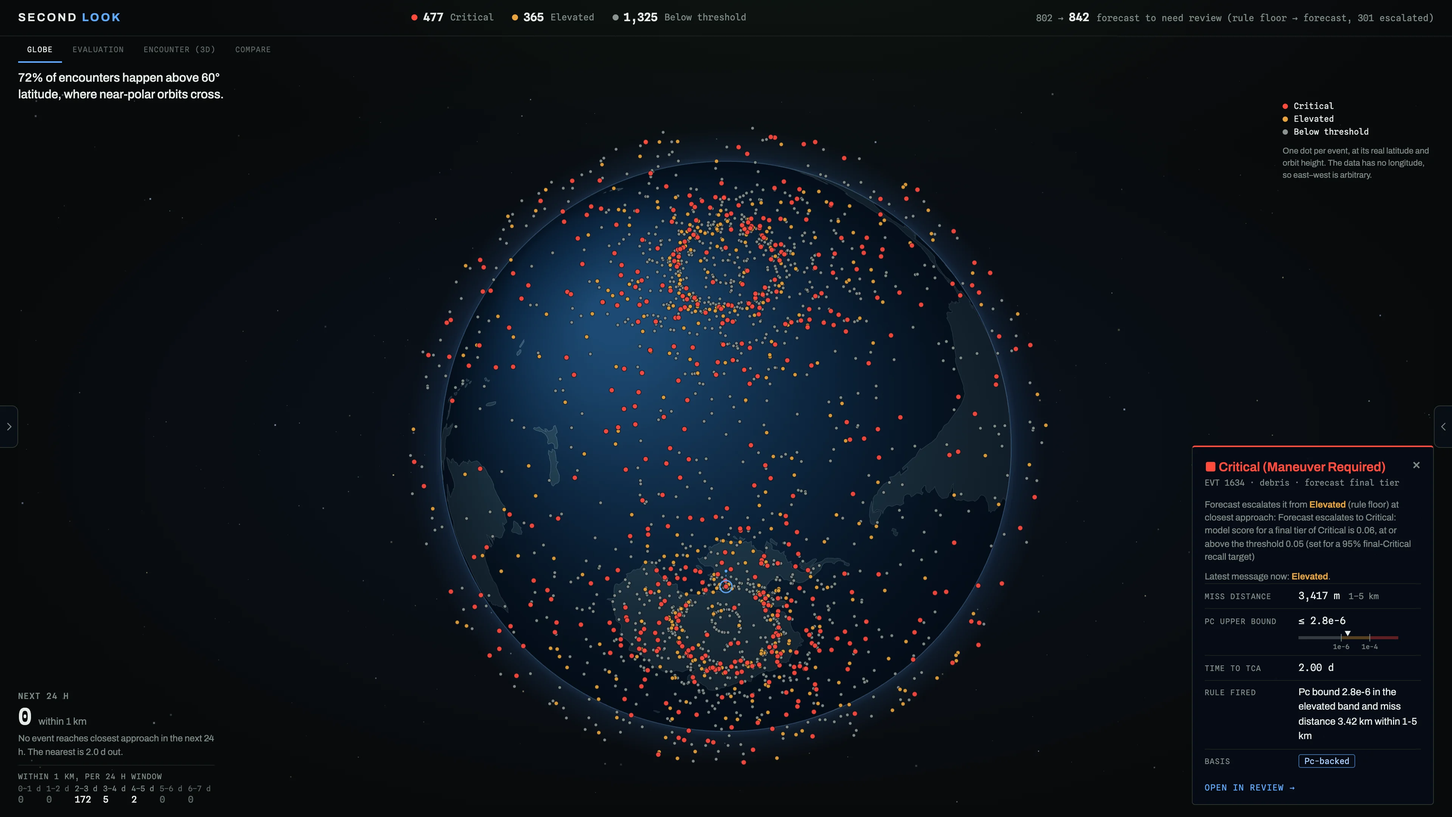
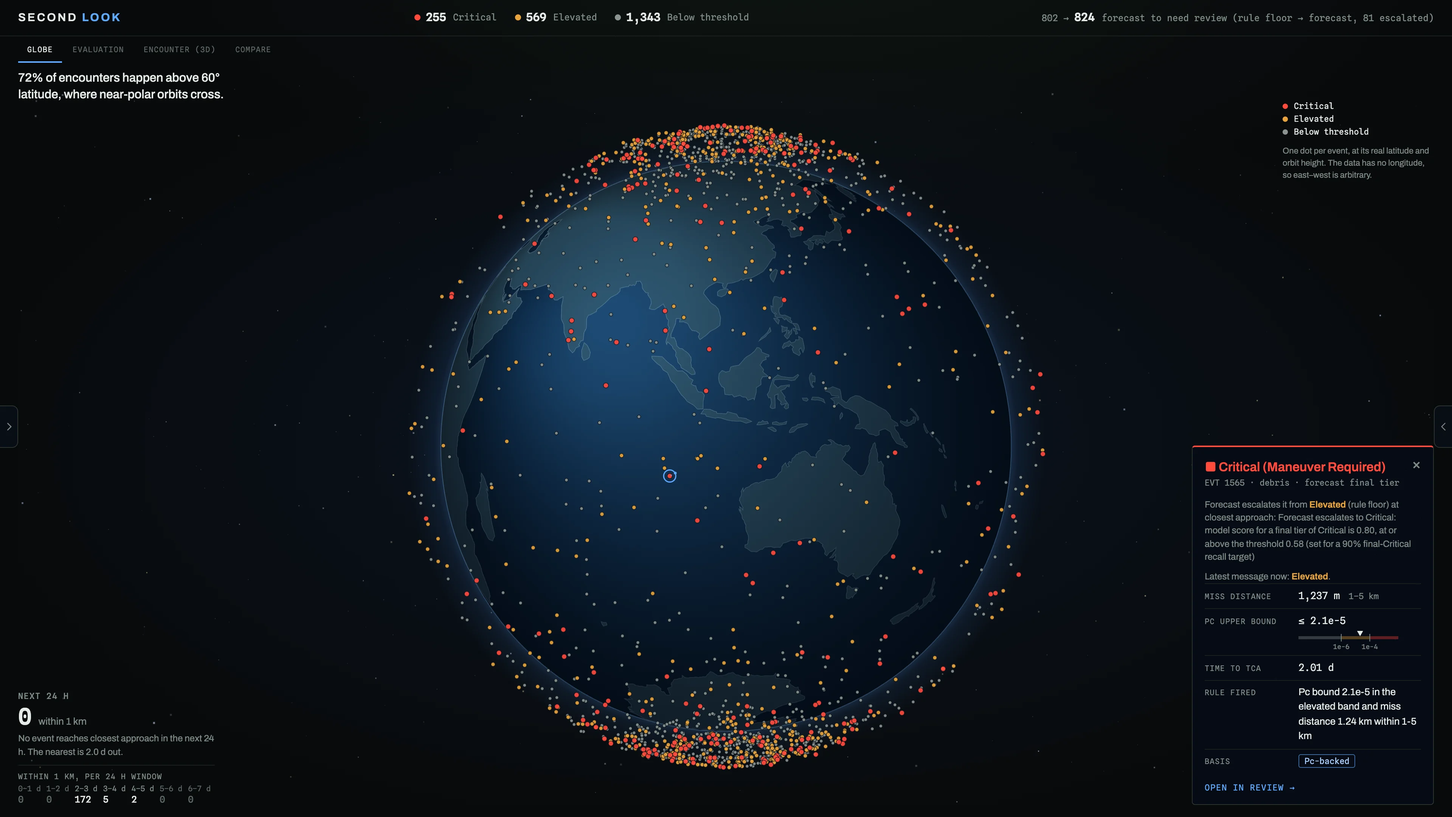
Deck: forecast numbers at the shipped 0.90 recall target (#76)
Scene 5, scene 11, speaker notes, README and BRIEF now use the 0.90 operating
point from docs/FORECAST.md and data/demo/forecast_metrics.json (PR #74):
5-fold CV Critical recall 0.911 vs 0.865, precision 0.757 vs 0.857, F2 0.875
vs 0.863, 79/270 escalations caught, 775 false escalations, accuracy 0.888 vs
0.938; 80/20 recall 0.910, 13/50 caught. Confusion matrix is the CV sum shown
on the Evaluation tab. Scene 11 states 0.90 as shipped with 0.95 as a
sensitivity (115/270, 1,139 false escalations) and adds the distance-rule
comparison (recall 0.897, F2 0.864, 47/270).

Recaptured eval, dash-final and decision frames (rect positions unchanged);
capture-ui.mjs now selects an escalated event for dash-final.

diff --git a/pitch/stack-deck/composition/index.html b/pitch/stack-deck/composition/index.html
@@ -888,7 +888,7 @@
     },
     {
       "sceneId": "task",
-      "notes": "On 31 October the organisers sharpened the task: from the updates at least two days out, predict each event's final tier. The bar is keeping today's tier. Our bounded forecast lifts Critical recall from 0.865 to 0.950 on five-fold CV and catches 115 of 270 escalations, against none. The cost is honest: more false escalations, lower accuracy.\n\n[about 27 s, from 2:18]\ndocs/FORECAST.md, data/demo/forecast_metrics.json (shipped operating point: 95% final-Critical recall target, t_crit 0.054, t_elev 0.345). 5-fold event CV, 11,942 cohort events, mean over folds: Critical recall 0.950 ± 0.025 vs 0.865 ± 0.042 for miss-only persistence (\"keep today's tier\"); Critical precision 0.565 vs 0.857; Critical F2 0.835 vs 0.863; escalations caught 115/270 vs 0/270; false escalations 1,139 vs 0; accuracy 0.862 vs 0.938 (lower; macro F1 0.767 vs 0.887). On accuracy, macro F1 and F2 we do NOT beat persistence. Organisers' 80/20 split (2,389 validation events): recall 0.970 vs 0.886, 24/50 escalations caught, 218 false escalations, accuracy 0.871 vs 0.943. Bounded: predicted = max(floor, model escalation); a rule-defined Critical at the latest ≥ 2 d update is never lowered. 616 of the 1,139 false escalations come from the floor (keeping Pc-only Elevated at Elevated). The 95% is a recall target measured out of fold, not a guarantee. p_final is a class-weighted score, not a calibrated probability. Then the dashboard's default \"Final tier\" view (#67; \"Now\" restores per-message tiers): the escalated event card shows why the forecast lifts it (e.g. EVT 1634, Elevated floor → Critical, score 0.06 ≥ threshold 0.05); header 802 → 842 to review (rule floor → forecast, 301 escalated). Last frame: the dashboard's Evaluation tab, which now leads with the official panel (#68): the same 5-fold CV table (Second Look / keep today's tier / Pc-bound persistence, 80/20 on a toggle) and the 3x3 confusion matrix, read live from /api/metrics. Capture: /static/decision.html with real forecasts on the 2,167 test events (no outcomes, never scored): 477 Critical, 365 Elevated, 1,325 below threshold, 301 escalated."
+      "notes": "On 31 October the organisers sharpened the task: from the updates at least two days out, predict each event's final tier. The bar is keeping today's tier. Our bounded forecast lifts Critical recall from 0.865 to 0.911 on five-fold CV and catches 79 of 270 escalations, against none. The cost is honest: more false escalations, lower accuracy.\n\n[about 27 s, from 2:18]\ndocs/FORECAST.md, data/demo/forecast_metrics.json (shipped operating point: 90% final-Critical recall target, t_crit 0.585, t_elev 0.345; PR #74). 5-fold event CV, 11,942 cohort events, mean over folds: Critical recall 0.911 ± 0.050 vs 0.865 ± 0.042 for miss-only persistence (\"keep today's tier\"); Critical precision 0.757 vs 0.857; Critical F2 0.875 vs 0.863; escalations caught 79/270 vs 0/270; false escalations 775 vs 0; accuracy 0.888 vs 0.938 (lower; macro F1 0.834 vs 0.887). On accuracy, macro F1 and Critical precision we do NOT beat persistence. Honest line: a single distance rule (Critical if latest miss < ~1.1 km, m* tuned train-only to 90% recall, 1.04-1.14 km) does about as well on Critical: recall 0.897, F2 0.864, 47/270 caught (687 false escalations); the model's added value is mainly the extra escalations caught (79 vs 47). Organisers' 80/20 split (2,389 validation events): recall 0.910 vs 0.886, 13/50 escalations caught, 142 false escalations, accuracy 0.897 vs 0.943. Bounded: predicted = max(floor, model escalation); a rule-defined Critical at the latest ≥ 2 d update is never lowered. 616 of the 775 false escalations come from the floor (keeping Pc-only Elevated at Elevated). The 90% is a recall target measured out of fold, not a guarantee; it was chosen after seeing CV (the pre-registered target was 0.95). p_final is a class-weighted score, not a calibrated probability. Then the dashboard's default \"Final tier\" view (#67; \"Now\" restores per-message tiers): the escalated event card shows why the forecast lifts it (EVT 1565, Elevated floor → Critical, score 0.80 ≥ threshold 0.58); header 802 → 824 to review (rule floor → forecast, 81 escalated). Last frame: the dashboard's Evaluation tab, which now leads with the official panel (#68): the same 5-fold CV table (Second Look / keep today's tier / Pc-bound persistence, 80/20 on a toggle) and the 3x3 confusion matrix, read live from /api/metrics. Capture: /static/decision.html with real forecasts on the 2,167 test events (no outcomes, never scored): 255 Critical, 569 Elevated, 1,343 below threshold, 81 escalated. Expected queue: the forecast marks 255 of 2,167 test events Critical, against 196 by rule."
     },
     {
       "sceneId": "record",
@@ -912,11 +912,11 @@
     },
     {
       "sceneId": "next",
-      "notes": "Here's the forecast in full. On five-fold CV, 792 of 834 final-Critical events are forecast Critical, and most errors over-warn rather than under-warn. What's open: a 90 percent target would cut false escalations from 1,139 to 775 but catch 79 escalations, not 115. That's the team's call. And we don't yet have calibrated scores, a live feed, or data inside two days.\n\n[about 29 s, from 5:09]\nConfusion matrix: 5-fold CV, summed over folds, rows = true final tier, columns = forecast (below / Elevated / Critical): below 7,999 / 882 / 65; Elevated 115 / 1,500 / 547; Critical 10 / 32 / 792. Under-tiered: 157 events (115 + 10 + 32). Recall-target sweep (docs/FORECAST.md, re-tuned train-only per target): 0.90 → recall 0.911, precision 0.757, F2 0.875, 79/270 caught, 775 false escalations, accuracy 0.888. The 0.95 target was fixed before the run; choosing 0.90 after seeing CV is a post-hoc choice, so we leave it to the team (a follow-up PR \"Forecaster at 0.90 recall target\" had not merged when this deck was built). No test CDM is closer than 2 days (minimum 2.0002 d), so the final window is untested. Claude-mode explanations are not evaluated (copilot eval was fallback mode)."
+      "notes": "Here's the forecast in full. On five-fold CV, 760 of 834 final-Critical events are forecast Critical, and most errors over-warn rather than under-warn. We ship the 90 percent target: 95 percent would catch 115 escalations, not 79, but with 1,139 false escalations instead of 775. And honestly, a single distance rule does about as well on Critical. Still open: calibrated scores, a live feed, and data inside two days.\n\n[about 32 s, from 5:09]\nConfusion matrix: 5-fold CV, summed over folds (as on the Evaluation tab), rows = true final tier, columns = forecast (below / Elevated / Critical): below 8,019 / 900 / 27; Elevated 119 / 1,824 / 219; Critical 10 / 64 / 760. Under-tiered: 193 events (119 + 10 + 64); over-tiered: 1,146. Persistence (miss-only) for comparison: Critical 14 / 99 / 721. Recall-target sweep (docs/FORECAST.md, re-tuned train-only per target): 0.85 → recall 0.873, precision 0.808, F2 0.859, 47/270 caught, 703 false escalations, accuracy 0.891; 0.90 (shipped) → recall 0.911, precision 0.757, F2 0.875, 79/270, 775, accuracy 0.888; 0.95 (sensitivity) → recall 0.950, precision 0.565, F2 0.835, 115/270, 1,139, accuracy 0.862. 0.95 was the pre-registered target; the team chose 0.90 after seeing CV (PR #74: best Critical F2 of the three, 364 fewer false escalations), so the CV numbers at 0.90 are slightly optimistic. Distance rule (nowcast floor + Critical if latest miss < m*, m* tuned train-only to 90% recall, 1.04-1.14 km): recall 0.897, precision 0.755, F2 0.864, 47/270 caught, 687 false escalations. No test CDM is closer than 2 days (minimum 2.0002 d), so the final window is untested. Claude-mode explanations are not evaluated (copilot eval was fallback mode)."
     },
     {
       "sceneId": "close",
-      "notes": "So, Second Look. Rules decide every tier. The model only removes over-warnings, and every removal is on the record. Claude only writes explanations. And the analyst always decides. It preserves every rule-defined Critical. Thank you, we'd love your questions.\n\n[about 18 s, from 5:38]\nRun it: uv sync, then uv run uvicorn server:app (serves the frozen data/demo reports); GET /api/audit for the live check. Interfaces: docs/CONTRACT.md. Method: docs/ALGO.md. Evaluation: docs/EVAL.md and docs/FORECAST.md. Background: Horizon view pulled back to the globe (#view=globe; orbits real size, shape and tilt, orientation not in the data)."
+      "notes": "So, Second Look. Rules decide every tier. The model only removes over-warnings, and every removal is on the record. Claude only writes explanations. And the analyst always decides. It preserves every rule-defined Critical. Thank you, we'd love your questions.\n\n[about 18 s, from 5:41]\nRun it: uv sync, then uv run uvicorn server:app (serves the frozen data/demo reports); GET /api/audit for the live check. Interfaces: docs/CONTRACT.md. Method: docs/ALGO.md. Evaluation: docs/EVAL.md and docs/FORECAST.md. Background: Horizon view pulled back to the globe (#view=globe; orbits real size, shape and tilt, orientation not in the data)."
     }
   ]
 }
@@ -1118,7 +1118,7 @@
         id="s-task"
         class="scene clip"
         data-composition-id="task"
-        data-cap="Bounded: a rule-defined Critical is never lowered. The 95% is a recall target, not a guarantee."
+        data-cap="Bounded: a rule-defined Critical is never lowered. The 90% is a recall target, not a guarantee."
         data-start="50"
         data-duration="10"
         data-label="5 The official task"
@@ -1137,15 +1137,15 @@
             <table class="mini" id="task-tbl">
               <thead><tr><th></th><th>Ours</th><th>Keep tier</th></tr></thead>
               <tbody>
-                <tr><td>Critical recall</td><td class="g">0.950</td><td>0.865</td></tr>
-                <tr><td>Critical precision</td><td>0.565</td><td>0.857</td></tr>
-                <tr><td>Critical F2</td><td>0.835</td><td>0.863</td></tr>
-                <tr><td>Escalations caught</td><td class="g">115/270</td><td>0/270</td></tr>
-                <tr><td>False escalations</td><td class="a">1,139</td><td>0</td></tr>
-                <tr><td>Accuracy</td><td class="a">0.862 lower</td><td>0.938</td></tr>
+                <tr><td>Critical recall</td><td class="g">0.911</td><td>0.865</td></tr>
+                <tr><td>Critical precision</td><td>0.757</td><td>0.857</td></tr>
+                <tr><td>Critical F2</td><td class="g">0.875</td><td>0.863</td></tr>
+                <tr><td>Escalations caught</td><td class="g">79/270</td><td>0/270</td></tr>
+                <tr><td>False escalations</td><td class="a">775</td><td>0</td></tr>
+                <tr><td>Accuracy</td><td class="a">0.888 lower</td><td>0.938</td></tr>
               </tbody>
             </table>
-            <div class="note" style="font-size: 22px">80/20 split: recall 0.970, 24/50 caught.</div>
+            <div class="note" style="font-size: 22px">80/20 split: recall 0.910, 13/50 caught.</div>
           </div>
         </div>
         <div class="shot cap-r" id="task-shot">
@@ -1344,16 +1344,17 @@
           <table class="cm" id="nx-cm">
             <thead><tr><th class="rh">True final ↓</th><th>Below</th><th>Elevated</th><th>Critical</th></tr></thead>
             <tbody>
-              <tr><th class="rh">Below thr.</th><td class="diag">7,999</td><td>882</td><td>65</td></tr>
-              <tr><th class="rh">Elevated</th><td>115</td><td class="diag">1,500</td><td>547</td></tr>
-              <tr><th class="rh">Critical</th><td>10</td><td>32</td><td class="diag">792</td></tr>
+              <tr><th class="rh">Below thr.</th><td class="diag">8,019</td><td>900</td><td>27</td></tr>
+              <tr><th class="rh">Elevated</th><td>119</td><td class="diag">1,824</td><td>219</td></tr>
+              <tr><th class="rh">Critical</th><td>10</td><td>64</td><td class="diag">760</td></tr>
             </tbody>
           </table>
-          <div class="note">Columns: forecast final tier. <b style="color: #eef3f1">792 of 834</b> final-Critical events forecast Critical (0.950).</div>
+          <div class="note">Columns: forecast final tier. <b style="color: #eef3f1">760 of 834</b> final-Critical events forecast Critical (0.911).</div>
+          <div class="note"><b style="color: #eef3f1">Shipped at the 0.90 target.</b> Sensitivity: 0.95 would catch 115/270 escalations, with 1,139 false escalations (775 at 0.90).</div>
         </div>
         <div class="abs card" id="nx-b" style="left: 984px; top: 340px; width: 840px; height: 480px; padding: 30px 34px; display: flex; flex-direction: column; gap: 22px">
           <div><span class="wip">OPEN</span></div>
-          <div class="pt"><b>Target 0.90, not 0.95?</b> 775 false escalations, not 1,139; 79 escalations caught, not 115. The team's call.</div>
+          <div class="pt"><b>A simple rule nearly matches it.</b> A single distance rule (Critical if latest miss &lt; ~1.1 km) does about as well on Critical: recall 0.897, F2 0.864, 47/270 caught.</div>
           <div class="pt">Forecast scores rank events; they are not calibrated probabilities</div>
           <div class="pt">Stricter v2: CV only, not shipped</div>
         </div>

diff --git a/pitch/stack-deck/index.html b/pitch/stack-deck/index.html
@@ -55,7 +55,7 @@
     },
     {
       "sceneId": "task",
-      "notes": "On 31 October the organisers sharpened the task: from the updates at least two days out, predict each event's final tier. The bar is keeping today's tier. Our bounded forecast lifts Critical recall from 0.865 to 0.950 on five-fold CV and catches 115 of 270 escalations, against none. The cost is honest: more false escalations, lower accuracy.\n\n[about 27 s, from 2:18]\ndocs/FORECAST.md, data/demo/forecast_metrics.json (shipped operating point: 95% final-Critical recall target, t_crit 0.054, t_elev 0.345). 5-fold event CV, 11,942 cohort events, mean over folds: Critical recall 0.950 ± 0.025 vs 0.865 ± 0.042 for miss-only persistence (\"keep today's tier\"); Critical precision 0.565 vs 0.857; Critical F2 0.835 vs 0.863; escalations caught 115/270 vs 0/270; false escalations 1,139 vs 0; accuracy 0.862 vs 0.938 (lower; macro F1 0.767 vs 0.887). On accuracy, macro F1 and F2 we do NOT beat persistence. Organisers' 80/20 split (2,389 validation events): recall 0.970 vs 0.886, 24/50 escalations caught, 218 false escalations, accuracy 0.871 vs 0.943. Bounded: predicted = max(floor, model escalation); a rule-defined Critical at the latest ≥ 2 d update is never lowered. 616 of the 1,139 false escalations come from the floor (keeping Pc-only Elevated at Elevated). The 95% is a recall target measured out of fold, not a guarantee. p_final is a class-weighted score, not a calibrated probability. Then the dashboard's default \"Final tier\" view (#67; \"Now\" restores per-message tiers): the escalated event card shows why the forecast lifts it (e.g. EVT 1634, Elevated floor → Critical, score 0.06 ≥ threshold 0.05); header 802 → 842 to review (rule floor → forecast, 301 escalated). Last frame: the dashboard's Evaluation tab, which now leads with the official panel (#68): the same 5-fold CV table (Second Look / keep today's tier / Pc-bound persistence, 80/20 on a toggle) and the 3x3 confusion matrix, read live from /api/metrics. Capture: /static/decision.html with real forecasts on the 2,167 test events (no outcomes, never scored): 477 Critical, 365 Elevated, 1,325 below threshold, 301 escalated."
+      "notes": "On 31 October the organisers sharpened the task: from the updates at least two days out, predict each event's final tier. The bar is keeping today's tier. Our bounded forecast lifts Critical recall from 0.865 to 0.911 on five-fold CV and catches 79 of 270 escalations, against none. The cost is honest: more false escalations, lower accuracy.\n\n[about 27 s, from 2:18]\ndocs/FORECAST.md, data/demo/forecast_metrics.json (shipped operating point: 90% final-Critical recall target, t_crit 0.585, t_elev 0.345; PR #74). 5-fold event CV, 11,942 cohort events, mean over folds: Critical recall 0.911 ± 0.050 vs 0.865 ± 0.042 for miss-only persistence (\"keep today's tier\"); Critical precision 0.757 vs 0.857; Critical F2 0.875 vs 0.863; escalations caught 79/270 vs 0/270; false escalations 775 vs 0; accuracy 0.888 vs 0.938 (lower; macro F1 0.834 vs 0.887). On accuracy, macro F1 and Critical precision we do NOT beat persistence. Honest line: a single distance rule (Critical if latest miss < ~1.1 km, m* tuned train-only to 90% recall, 1.04-1.14 km) does about as well on Critical: recall 0.897, F2 0.864, 47/270 caught (687 false escalations); the model's added value is mainly the extra escalations caught (79 vs 47). Organisers' 80/20 split (2,389 validation events): recall 0.910 vs 0.886, 13/50 escalations caught, 142 false escalations, accuracy 0.897 vs 0.943. Bounded: predicted = max(floor, model escalation); a rule-defined Critical at the latest ≥ 2 d update is never lowered. 616 of the 775 false escalations come from the floor (keeping Pc-only Elevated at Elevated). The 90% is a recall target measured out of fold, not a guarantee; it was chosen after seeing CV (the pre-registered target was 0.95). p_final is a class-weighted score, not a calibrated probability. Then the dashboard's default \"Final tier\" view (#67; \"Now\" restores per-message tiers): the escalated event card shows why the forecast lifts it (EVT 1565, Elevated floor → Critical, score 0.80 ≥ threshold 0.58); header 802 → 824 to review (rule floor → forecast, 81 escalated). Last frame: the dashboard's Evaluation tab, which now leads with the official panel (#68): the same 5-fold CV table (Second Look / keep today's tier / Pc-bound persistence, 80/20 on a toggle) and the 3x3 confusion matrix, read live from /api/metrics. Capture: /static/decision.html with real forecasts on the 2,167 test events (no outcomes, never scored): 255 Critical, 569 Elevated, 1,343 below threshold, 81 escalated. Expected queue: the forecast marks 255 of 2,167 test events Critical, against 196 by rule."
     },
     {
       "sceneId": "record",
@@ -79,11 +79,11 @@
     },
     {
       "sceneId": "next",
-      "notes": "Here's the forecast in full. On five-fold CV, 792 of 834 final-Critical events are forecast Critical, and most errors over-warn rather than under-warn. What's open: a 90 percent target would cut false escalations from 1,139 to 775 but catch 79 escalations, not 115. That's the team's call. And we don't yet have calibrated scores, a live feed, or data inside two days.\n\n[about 29 s, from 5:09]\nConfusion matrix: 5-fold CV, summed over folds, rows = true final tier, columns = forecast (below / Elevated / Critical): below 7,999 / 882 / 65; Elevated 115 / 1,500 / 547; Critical 10 / 32 / 792. Under-tiered: 157 events (115 + 10 + 32). Recall-target sweep (docs/FORECAST.md, re-tuned train-only per target): 0.90 → recall 0.911, precision 0.757, F2 0.875, 79/270 caught, 775 false escalations, accuracy 0.888. The 0.95 target was fixed before the run; choosing 0.90 after seeing CV is a post-hoc choice, so we leave it to the team (a follow-up PR \"Forecaster at 0.90 recall target\" had not merged when this deck was built). No test CDM is closer than 2 days (minimum 2.0002 d), so the final window is untested. Claude-mode explanations are not evaluated (copilot eval was fallback mode)."
+      "notes": "Here's the forecast in full. On five-fold CV, 760 of 834 final-Critical events are forecast Critical, and most errors over-warn rather than under-warn. We ship the 90 percent target: 95 percent would catch 115 escalations, not 79, but with 1,139 false escalations instead of 775. And honestly, a single distance rule does about as well on Critical. Still open: calibrated scores, a live feed, and data inside two days.\n\n[about 32 s, from 5:09]\nConfusion matrix: 5-fold CV, summed over folds (as on the Evaluation tab), rows = true final tier, columns = forecast (below / Elevated / Critical): below 8,019 / 900 / 27; Elevated 119 / 1,824 / 219; Critical 10 / 64 / 760. Under-tiered: 193 events (119 + 10 + 64); over-tiered: 1,146. Persistence (miss-only) for comparison: Critical 14 / 99 / 721. Recall-target sweep (docs/FORECAST.md, re-tuned train-only per target): 0.85 → recall 0.873, precision 0.808, F2 0.859, 47/270 caught, 703 false escalations, accuracy 0.891; 0.90 (shipped) → recall 0.911, precision 0.757, F2 0.875, 79/270, 775, accuracy 0.888; 0.95 (sensitivity) → recall 0.950, precision 0.565, F2 0.835, 115/270, 1,139, accuracy 0.862. 0.95 was the pre-registered target; the team chose 0.90 after seeing CV (PR #74: best Critical F2 of the three, 364 fewer false escalations), so the CV numbers at 0.90 are slightly optimistic. Distance rule (nowcast floor + Critical if latest miss < m*, m* tuned train-only to 90% recall, 1.04-1.14 km): recall 0.897, precision 0.755, F2 0.864, 47/270 caught, 687 false escalations. No test CDM is closer than 2 days (minimum 2.0002 d), so the final window is untested. Claude-mode explanations are not evaluated (copilot eval was fallback mode)."
     },
     {
       "sceneId": "close",
-      "notes": "So, Second Look. Rules decide every tier. The model only removes over-warnings, and every removal is on the record. Claude only writes explanations. And the analyst always decides. It preserves every rule-defined Critical. Thank you, we'd love your questions.\n\n[about 18 s, from 5:38]\nRun it: uv sync, then uv run uvicorn server:app (serves the frozen data/demo reports); GET /api/audit for the live check. Interfaces: docs/CONTRACT.md. Method: docs/ALGO.md. Evaluation: docs/EVAL.md and docs/FORECAST.md. Background: Horizon view pulled back to the globe (#view=globe; orbits real size, shape and tilt, orientation not in the data)."
+      "notes": "So, Second Look. Rules decide every tier. The model only removes over-warnings, and every removal is on the record. Claude only writes explanations. And the analyst always decides. It preserves every rule-defined Critical. Thank you, we'd love your questions.\n\n[about 18 s, from 5:41]\nRun it: uv sync, then uv run uvicorn server:app (serves the frozen data/demo reports); GET /api/audit for the live check. Interfaces: docs/CONTRACT.md. Method: docs/ALGO.md. Evaluation: docs/EVAL.md and docs/FORECAST.md. Background: Horizon view pulled back to the globe (#view=globe; orbits real size, shape and tilt, orientation not in the data)."
     }
   ]
 }

diff --git a/pitch/stack-deck/notes/script.md b/pitch/stack-deck/notes/script.md
@@ -1,4 +1,4 @@
-# Speaker notes for Second Look (deck v3). Text before '--' is spoken (about 20-30 s a slide); after it is presenter-only (sources, cautions, Q&A). Every UI image is a real capture of our product on the frozen data/demo reports with no API key (tools/capture-ui.mjs). Run `python3 tools/build.py` after editing. Wording rules: say "preserves every rule-defined Critical", never "never misses a collision"; the 99% (demoter) and 95% (forecaster) are recall targets, not guarantees; tier 0 is "below threshold", never "safe"; no "only one" claims.
+# Speaker notes for Second Look (deck v3). Text before '--' is spoken (about 20-30 s a slide); after it is presenter-only (sources, cautions, Q&A). Every UI image is a real capture of our product on the frozen data/demo reports with no API key (tools/capture-ui.mjs). Run `python3 tools/build.py` after editing. Wording rules: say "preserves every rule-defined Critical", never "never misses a collision"; the 99% (demoter) and 90% (forecaster) are recall targets, not guarantees; tier 0 is "below threshold", never "safe"; no "only one" claims.
 @cover
 This is Second Look, conjunction triage with bounded, inspectable demotion. It cuts the analyst's review queue by a quarter, shows a decision record for every downgrade, and it's architecturally forbidden from downgrading a rule-defined Critical. Behind me is our Horizon prediction replay: each dot is one CDM's predicted miss point, and the trace under it is real.
 --
@@ -26,9 +26,9 @@ Layer two decides every tier. The NASA and ESA rules from the brief tier each me
 Rules: triage/tiers.py (Critical Pc ≥ 1e-4 or miss < 1 km; Elevated Pc ≥ 1e-6 or 1-5 km). Model: gradient-boosted trees with monotonic constraints (triage/model.py). Threshold = 1% quantile of out-of-fold scores on truly-Elevated candidates: a 99% recall target, measured out of fold, not a guarantee. Both screenshots are real: the Baseline rule / Model toggle.
 
 @task
-On 31 October the organisers sharpened the task: from the updates at least two days out, predict each event's final tier. The bar is keeping today's tier. Our bounded forecast lifts Critical recall from 0.865 to 0.950 on five-fold CV and catches 115 of 270 escalations, against none. The cost is honest: more false escalations, lower accuracy.
+On 31 October the organisers sharpened the task: from the updates at least two days out, predict each event's final tier. The bar is keeping today's tier. Our bounded forecast lifts Critical recall from 0.865 to 0.911 on five-fold CV and catches 79 of 270 escalations, against none. The cost is honest: more false escalations, lower accuracy.
 --
-docs/FORECAST.md, data/demo/forecast_metrics.json (shipped operating point: 95% final-Critical recall target, t_crit 0.054, t_elev 0.345). 5-fold event CV, 11,942 cohort events, mean over folds: Critical recall 0.950 ± 0.025 vs 0.865 ± 0.042 for miss-only persistence ("keep today's tier"); Critical precision 0.565 vs 0.857; Critical F2 0.835 vs 0.863; escalations caught 115/270 vs 0/270; false escalations 1,139 vs 0; accuracy 0.862 vs 0.938 (lower; macro F1 0.767 vs 0.887). On accuracy, macro F1 and F2 we do NOT beat persistence. Organisers' 80/20 split (2,389 validation events): recall 0.970 vs 0.886, 24/50 escalations caught, 218 false escalations, accuracy 0.871 vs 0.943. Bounded: predicted = max(floor, model escalation); a rule-defined Critical at the latest ≥ 2 d update is never lowered. 616 of the 1,139 false escalations come from the floor (keeping Pc-only Elevated at Elevated). The 95% is a recall target measured out of fold, not a guarantee. p_final is a class-weighted score, not a calibrated probability. Then the dashboard's default "Final tier" view (#67; "Now" restores per-message tiers): the escalated event card shows why the forecast lifts it (e.g. EVT 1634, Elevated floor → Critical, score 0.06 ≥ threshold 0.05); header 802 → 842 to review (rule floor → forecast, 301 escalated). Last frame: the dashboard's Evaluation tab, which now leads with the official panel (#68): the same 5-fold CV table (Second Look / keep today's tier / Pc-bound persistence, 80/20 on a toggle) and the 3x3 confusion matrix, read live from /api/metrics. Capture: /static/decision.html with real forecasts on the 2,167 test events (no outcomes, never scored): 477 Critical, 365 Elevated, 1,325 below threshold, 301 escalated.
+docs/FORECAST.md, data/demo/forecast_metrics.json (shipped operating point: 90% final-Critical recall target, t_crit 0.585, t_elev 0.345; PR #74). 5-fold event CV, 11,942 cohort events, mean over folds: Critical recall 0.911 ± 0.050 vs 0.865 ± 0.042 for miss-only persistence ("keep today's tier"); Critical precision 0.757 vs 0.857; Critical F2 0.875 vs 0.863; escalations caught 79/270 vs 0/270; false escalations 775 vs 0; accuracy 0.888 vs 0.938 (lower; macro F1 0.834 vs 0.887). On accuracy, macro F1 and Critical precision we do NOT beat persistence. Honest line: a single distance rule (Critical if latest miss < ~1.1 km, m* tuned train-only to 90% recall, 1.04-1.14 km) does about as well on Critical: recall 0.897, F2 0.864, 47/270 caught (687 false escalations); the model's added value is mainly the extra escalations caught (79 vs 47). Organisers' 80/20 split (2,389 validation events): recall 0.910 vs 0.886, 13/50 escalations caught, 142 false escalations, accuracy 0.897 vs 0.943. Bounded: predicted = max(floor, model escalation); a rule-defined Critical at the latest ≥ 2 d update is never lowered. 616 of the 775 false escalations come from the floor (keeping Pc-only Elevated at Elevated). The 90% is a recall target measured out of fold, not a guarantee; it was chosen after seeing CV (the pre-registered target was 0.95). p_final is a class-weighted score, not a calibrated probability. Then the dashboard's default "Final tier" view (#67; "Now" restores per-message tiers): the escalated event card shows why the forecast lifts it (EVT 1565, Elevated floor → Critical, score 0.80 ≥ threshold 0.58); header 802 → 824 to review (rule floor → forecast, 81 escalated). Last frame: the dashboard's Evaluation tab, which now leads with the official panel (#68): the same 5-fold CV table (Second Look / keep today's tier / Pc-bound persistence, 80/20 on a toggle) and the 3x3 confusion matrix, read live from /api/metrics. Capture: /static/decision.html with real forecasts on the 2,167 test events (no outcomes, never scored): 255 Critical, 569 Elevated, 1,343 below threshold, 81 escalated. Expected queue: the forecast marks 255 of 2,167 test events Critical, against 196 by rule.
 
 
 @record
@@ -58,9 +58,9 @@ We set our safety gate before testing and stuck to it. Model v2 cut false alarms
 README "Our eval caught our bug" and docs/EVAL.md "Safety gate". v1's CV rate predicts about 5.9 under-tiered CDMs on a test set this size, so seeing ≤ 1 had about a 2% chance (Poisson). Stricter gate: operator-invisible under-tier on train CV (not needs_review, no later update shown at its true tier): v1 23 CDMs in 10 events. v2@0.995: same workload (+1.1% false alarms), 17 under-tiered, 9 invisible; not shipped, never run on test. First model regressed log Pc and flagged 100% of CDMs.
 
 @next
-Here's the forecast in full. On five-fold CV, 792 of 834 final-Critical events are forecast Critical, and most errors over-warn rather than under-warn. What's open: a 90 percent target would cut false escalations from 1,139 to 775 but catch 79 escalations, not 115. That's the team's call. And we don't yet have calibrated scores, a live feed, or data inside two days.
+Here's the forecast in full. On five-fold CV, 760 of 834 final-Critical events are forecast Critical, and most errors over-warn rather than under-warn. We ship the 90 percent target: 95 percent would catch 115 escalations, not 79, but with 1,139 false escalations instead of 775. And honestly, a single distance rule does about as well on Critical. Still open: calibrated scores, a live feed, and data inside two days.
 --
-Confusion matrix: 5-fold CV, summed over folds, rows = true final tier, columns = forecast (below / Elevated / Critical): below 7,999 / 882 / 65; Elevated 115 / 1,500 / 547; Critical 10 / 32 / 792. Under-tiered: 157 events (115 + 10 + 32). Recall-target sweep (docs/FORECAST.md, re-tuned train-only per target): 0.90 → recall 0.911, precision 0.757, F2 0.875, 79/270 caught, 775 false escalations, accuracy 0.888. The 0.95 target was fixed before the run; choosing 0.90 after seeing CV is a post-hoc choice, so we leave it to the team (a follow-up PR "Forecaster at 0.90 recall target" had not merged when this deck was built). No test CDM is closer than 2 days (minimum 2.0002 d), so the final window is untested. Claude-mode explanations are not evaluated (copilot eval was fallback mode).
+Confusion matrix: 5-fold CV, summed over folds (as on the Evaluation tab), rows = true final tier, columns = forecast (below / Elevated / Critical): below 8,019 / 900 / 27; Elevated 119 / 1,824 / 219; Critical 10 / 64 / 760. Under-tiered: 193 events (119 + 10 + 64); over-tiered: 1,146. Persistence (miss-only) for comparison: Critical 14 / 99 / 721. Recall-target sweep (docs/FORECAST.md, re-tuned train-only per target): 0.85 → recall 0.873, precision 0.808, F2 0.859, 47/270 caught, 703 false escalations, accuracy 0.891; 0.90 (shipped) → recall 0.911, precision 0.757, F2 0.875, 79/270, 775, accuracy 0.888; 0.95 (sensitivity) → recall 0.950, precision 0.565, F2 0.835, 115/270, 1,139, accuracy 0.862. 0.95 was the pre-registered target; the team chose 0.90 after seeing CV (PR #74: best Critical F2 of the three, 364 fewer false escalations), so the CV numbers at 0.90 are slightly optimistic. Distance rule (nowcast floor + Critical if latest miss < m*, m* tuned train-only to 90% recall, 1.04-1.14 km): recall 0.897, precision 0.755, F2 0.864, 47/270 caught, 687 false escalations. No test CDM is closer than 2 days (minimum 2.0002 d), so the final window is untested. Claude-mode explanations are not evaluated (copilot eval was fallback mode).
 
 
 @close

diff --git a/pitch/stack-deck/README.md b/pitch/stack-deck/README.md
@@ -37,8 +37,8 @@ Cover (Horizon prediction replay flipbook: event 482 at CDM 1, 3, 6, then event 
 2 Why Second Look (the USP) · 3 The stack · 4 Risk pipeline · 5 The official task (decision point, final-tier
 forecast vs keep today's tier, 5-fold CV) · 6 Decision record · 7 It proves it live (replay trace + /api/audit +
 /api/triage) · 8 Honest evaluation · 9 Where it fails (event 1278) · 10 Safety gate (v2 didn't ship) ·
-11 In progress (forecast confusion matrix, the 0.90 vs 0.95 choice) · Close
+11 In progress (forecast confusion matrix, the shipped 0.90 target with 0.95 as a sensitivity, the distance-rule comparison) · Close
 
 Forecast numbers come from docs/FORECAST.md and data/demo/forecast_metrics.json at the shipped operating point
-(95% final-Critical recall target). dash-final is the dashboard's default Final tier view (#67); eval is the Evaluation tab's official panel
+(90% final-Critical recall target, PR #74). dash-final is the dashboard's default Final tier view (#67); eval is the Evaluation tab's official panel
 (#68); the per-message captures (dash-model, dash-baseline, compare-1278) are from deck v2 (the dashboard's Now view).

diff --git a/pitch/stack-deck/composition/BRIEF.md b/pitch/stack-deck/composition/BRIEF.md
@@ -39,6 +39,6 @@ push-in on a capture. No back, elastic or bounce eases.
 - Say "preserves every rule-defined Critical", never "never misses a collision". The 99% is a recall target, not
   a guarantee. No "only one" claims. Tier 0 is "below threshold", never "safe" (drawn grey, never green).
 - Forecast numbers only from docs/FORECAST.md / data/demo/forecast_metrics.json at the shipped operating point.
-  Say the accuracy is lower than persistence; the 95% is a recall target, not a guarantee.
+  Say the accuracy is lower than persistence; the 90% is a recall target, not a guarantee.
 - Claude only writes explanations; the copilot is not featured.
 - No AI attribution on slides.
